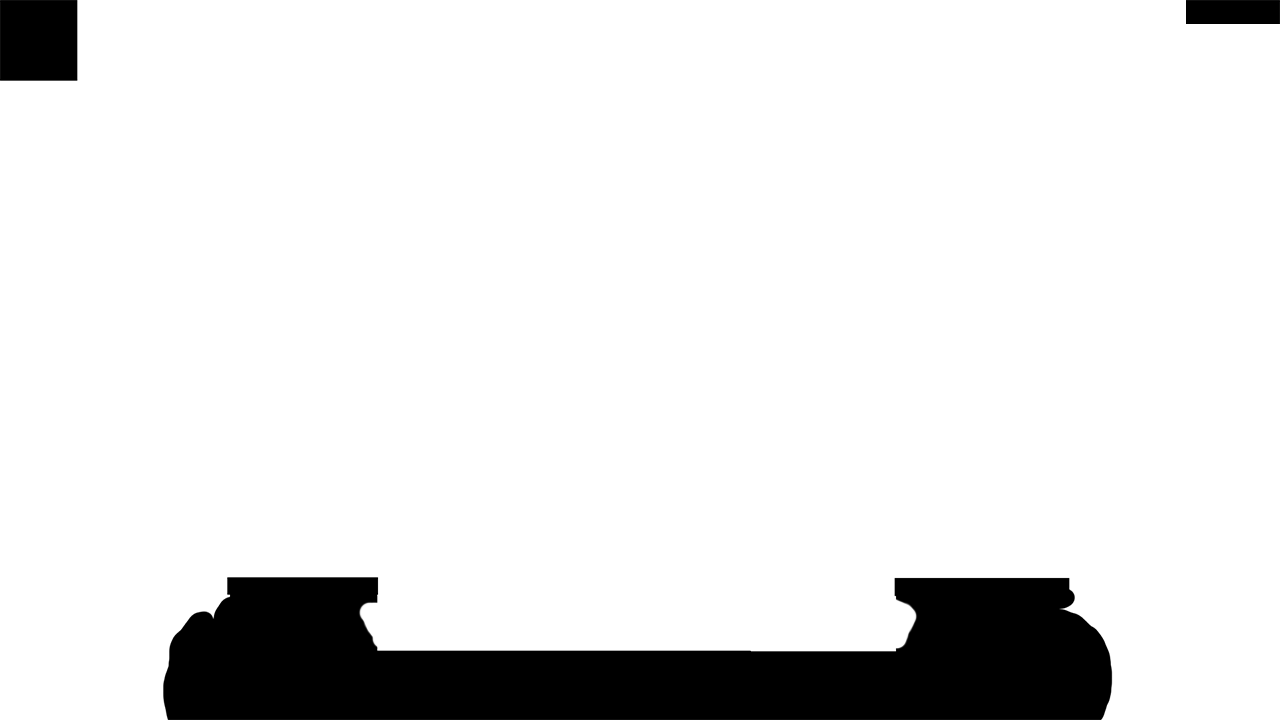
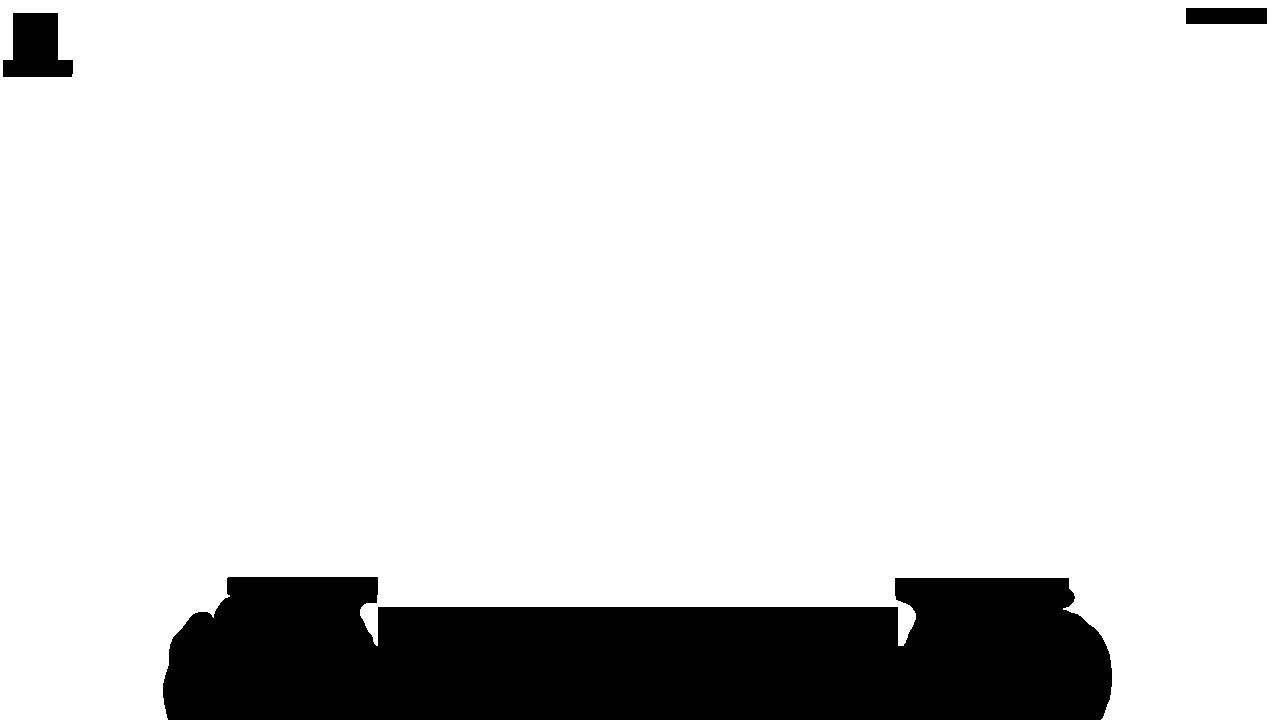
init

Changed region(s): [[0.2812, 0.825, 0.7188, 0.9167], [0.0, 0.0, 0.0625, 0.1222], [0.9062, 0.0, 1.0, 0.0306]]

diff --git a/src/pather.py b/src/pather.py
@@ -13,7 +13,7 @@ from logger import Logger
 from screen import convert_screen_to_monitor, convert_abs_to_screen, convert_abs_to_monitor, convert_screen_to_abs, grab, stop_detecting_window
 import template_finder
 from char import IChar
-from ui_manager import detect_screen_object, ScreenObjects, is_visible, select_screen_object_match
+from ui_manager import detect_screen_object, ScreenObjects, is_visible, select_screen_object_match, get_closest_non_hud_pixel
 
 class Location:
     # A5 Town
@@ -535,44 +535,6 @@ class Pather:
         #     cv2.imwrite(f"./log/screenshots/info/nil_path_{key}_" + time.strftime("%Y%m%d_%H%M%S") + ".png", grab())
         return True
 
-    def _adjust_abs_range_to_screen(self, abs_pos: tuple[float, float]) -> tuple[float, float]:
-        """
-        Adjust an absolute coordinate so it will not go out of screen or click on any ui which will not move the char
-        :param abs_pos: Absolute position of the desired position to move to
-        :return: Absolute position of a valid position that can be clicked on
-        """
-        f = 1.0
-        # Check for x-range
-        if abs_pos[0] > self._range_x[1]:
-            f = min(f, abs(self._range_x[1] / float(abs_pos[0])))
-        elif abs_pos[0] < self._range_x[0]:
-            f = min(f, abs(self._range_x[0] / float(abs_pos[0])))
-        # Check y-range
-        if abs_pos[1] > self._range_y[1]:
-            f = min(f, abs(self._range_y[1] / float(abs_pos[1])))
-        if abs_pos[1] < self._range_y[0]:
-            f = min(f, abs(self._range_y[0] / float(abs_pos[1])))
-        # Scale the position by the factor f
-        if f < 1.0:
-            abs_pos = (int(abs_pos[0] * f), int(abs_pos[1] * f))
-        # Check if adjusted position is "inside globe"
-        screen_pos = convert_abs_to_screen(abs_pos)
-        if is_in_roi(Config().ui_roi["mana_globe"], screen_pos) or is_in_roi(Config().ui_roi["health_globe"], screen_pos):
-            # convert any of health or mana roi top coordinate to abs (x-coordinate is just a dummy 0 value)
-            new_range_y_bottom = convert_screen_to_abs((0, Config().ui_roi["mana_globe"][1]))[1]
-            f = abs(new_range_y_bottom / float(abs_pos[1]))
-            abs_pos = (int(abs_pos[0] * f), int(abs_pos[1] * f))
-        # Check if clicking on merc img
-        screen_pos = convert_abs_to_screen(abs_pos)
-        if is_in_roi(Config().ui_roi["merc_icon"], screen_pos):
-            width = Config().ui_roi["merc_icon"][2]
-            height = Config().ui_roi["merc_icon"][3]
-            w_abs, h_abs = convert_screen_to_abs((width, height))
-            fw = abs(w_abs / float(abs_pos[0]))
-            fh = abs(h_abs / float(abs_pos[1]))
-            f = max(fw, fh)
-            abs_pos = (int(abs_pos[0] * f), int(abs_pos[1] * f))
-        return abs_pos
 
     def find_abs_node_pos(self, node_idx: int, img: np.ndarray, threshold: float = 0.68) -> tuple[float, float]:
         node = self._nodes[node_idx]
@@ -590,7 +552,7 @@ class Pather:
             # Calc the abs node position with the relative coordinates (relative to ref)
             node_pos_rel = self._get_node(node_idx, template_match.name)
             node_pos_abs = self._convert_rel_to_abs(node_pos_rel, ref_pos_abs)
-            node_pos_abs = self._adjust_abs_range_to_screen(node_pos_abs)
+            node_pos_abs = get_closest_non_hud_pixel(pos = node_pos_abs, target_type="abs")
             return node_pos_abs
         return None
 
@@ -668,7 +630,7 @@ class Pather:
                     else:
                         angle = random.random() * math.pi * 2
                         pos_abs = (math.cos(angle) * 150, math.sin(angle) * 150)
-                    pos_abs = self._adjust_abs_range_to_screen(pos_abs)
+                    pos_abs = get_closest_non_hud_pixel(pos = node_pos_abs, target_type="abs")
                     Logger.debug(f"Pather: taking a random guess towards " + str(pos_abs))
                     x_m, y_m = convert_abs_to_monitor(pos_abs)
                     char.move((x_m, y_m), force_move=True)
@@ -733,7 +695,7 @@ if __name__ == "__main__":
                         # Calc the abs node position with the relative coordinates (relative to ref)
                         node_pos_rel = pather._get_node(node_idx, template_type)
                         node_pos_abs = pather._convert_rel_to_abs(node_pos_rel, ref_pos_abs)
-                        node_pos_abs = pather._adjust_abs_range_to_screen(node_pos_abs)
+                        node_pos_abs = get_closest_non_hud_pixel(pos = node_pos_abs, target_type="abs")
                         x, y = convert_abs_to_screen(node_pos_abs)
                         cv2.circle(display_img, (x, y), 5, (255, 0, 0), 3)
                         cv2.putText(display_img, str(node_idx), (x, y), cv2.FONT_HERSHEY_SIMPLEX, 1, (255, 255, 255), 2, cv2.LINE_AA)

diff --git a/src/ui_manager.py b/src/ui_manager.py
@@ -3,12 +3,14 @@ import os
 import numpy as np
 import time
 import cv2
+from functools import cache
+
 from typing import TypeVar, Callable
 from utils.custom_mouse import mouse
 from utils.misc import wait, cut_roi, image_is_equal
 from logger import Logger
 from config import Config
-from screen import grab, convert_abs_to_monitor
+from screen import convert_abs_to_screen, convert_monitor_to_screen, convert_screen_to_abs, convert_screen_to_monitor, grab, convert_abs_to_monitor
 import template_finder
 from template_finder import TemplateMatch
 from dataclasses import dataclass
@@ -330,6 +332,64 @@ def center_mouse(delay_factor: list = None):
         mouse.move(*center_m, randomize=20, delay_factor = delay_factor)
     else:
         mouse.move(*center_m, randomize=20, delay_factor = [0.1, 0.2])
+
+@cache
+def get_hud_mask() -> np.ndarray:
+    mask = cv2.imread(f"assets/hud_mask.png", cv2.IMREAD_GRAYSCALE)
+    return cv2.threshold(mask, 1, 255, cv2.THRESH_BINARY)[1]
+
+def _find_nearest_nonzero(img: np.ndarray, pos: tuple[int, int]) -> tuple[int, int]:
+    """
+    Finds the nearest nonzero pixel to the target pixel.
+    :param img: The image to search in.
+    :param pos: The target pixel
+    :return: The nearest nonzero pixel
+    """
+
+    x, y = pos
+    if x < 0:
+        x = 0
+    elif x >= img.shape[1]:
+        x = img.shape[1] - 1
+    if y < 0:
+        y = 0
+    elif y >= img.shape[0]:
+        y = img.shape[0] - 1
+    if img[y,x]:
+        return (x, y)
+
+    nonzero = cv2.findNonZero(img)
+    distances = np.sqrt((nonzero[:,:,0] - x) ** 2 + (nonzero[:,:,1] - y) ** 2)
+    nearest_index = np.argmin(distances)
+    x, y = nonzero[nearest_index, :, :][0]
+    return (x, y)
+
+def get_closest_non_hud_pixel(pos : tuple[int, int], pos_type: str = "abs") -> tuple[int, int]:
+    """
+    Finds the closest non-hud pixel to the target pixel.
+    :param pos: The target pixel
+    :return: The closest non-hud pixel
+    """
+    match pos_type:
+        case "abs":
+            pos = convert_abs_to_screen(pos)
+        case "monitor":
+            pos = convert_monitor_to_screen(pos)
+        case "screen":
+            pass
+        case _:
+            Logger.error(f"Unknown pos type: {pos_type}")
+            return pos
+    screen_pos = _find_nearest_nonzero(get_hud_mask(), pos)
+    match pos_type:
+        case "abs":
+            new_pos = convert_screen_to_abs(screen_pos)
+        case "monitor":
+            new_pos = convert_screen_to_monitor(screen_pos)
+        case "screen":
+            new_pos = screen_pos
+    return new_pos
+
 
 # Testing: Move to whatever ui to test and run
 if __name__ == "__main__":

diff --git a/src/target_detect.py b/src/target_detect.py
@@ -7,6 +7,7 @@ from math import dist
 from utils.misc import color_filter, is_in_roi
 import json
 from dataclasses import dataclass
+from ui_manager import get_hud_mask
 
 FILTER_RANGES=[
     {"erode": 1, "blur": 3, "lh": 38, "ls": 169, "lv": 50, "uh": 70, "us": 255, "uv": 255}, # poison
@@ -120,8 +121,7 @@ def _process_image(img, mask_char:bool=False, mask_hud:bool=True, erode:int=None
     """
     img = img
     if mask_hud:
-        hud_mask = cv2.imread(f"./assets/hud_mask.png", cv2.IMREAD_GRAYSCALE)
-        img = cv2.bitwise_and(img, img, mask=hud_mask)
+        img = cv2.bitwise_and(img, img, mask=get_hud_mask())
     if mask_char: img = cv2.rectangle(img, (600,250), (700,400), (0,0,0), -1) # black out character by drawing a black box above him (e.g. ignore set glow)
     if erode:
         kernel = np.ones((erode, erode), 'uint8')
@@ -180,8 +180,6 @@ class LiveViewer:
     def __init__(self):
         with open("./src/utils/live-view-last-settings.json") as f:
             self.settings = json.loads(f.read())
-        self.hud_mask = cv2.imread(f"./assets/hud_mask.png", cv2.IMREAD_GRAYSCALE)
-        self.hud_mask = cv2.threshold(self.hud_mask, 1, 255, cv2.THRESH_BINARY)[1]
         self.use_existing_image = False
         self.existing_image_path = "test/assets/mobs.png"
         self.setup()
@@ -209,7 +207,7 @@ class LiveViewer:
             self.image = grab()
         else:
             self.image = cv2.imread(self.existing_image_path)
-        self.image = cv2.bitwise_and(self.image, self.image, mask=self.hud_mask)
+        self.image = cv2.bitwise_and(self.image, self.image, mask=get_hud_mask())
         # black out character
         self.image = cv2.rectangle(self.image, (550,250), (700,400), (0,0,0), -1)
         try:

diff --git a/src/d2r_image/processing_helpers.py b/src/d2r_image/processing_helpers.py
@@ -12,10 +12,11 @@ from d2r_image.ocr import image_to_text
 from d2r_image.processing_data import Runeword
 import d2r_image.d2data_lookup as d2data_lookup
 from d2r_image.d2data_lookup import fuzzy_base_item_match
-from d2r_image.processing_data import EXPECTED_HEIGHT_RANGE, EXPECTED_WIDTH_RANGE, GAUS_FILTER, ITEM_COLORS, QUALITY_COLOR_MAP, Runeword, HUD_MASK, BOX_EXPECTED_HEIGHT_RANGE, BOX_EXPECTED_WIDTH_RANGE
+from d2r_image.processing_data import EXPECTED_HEIGHT_RANGE, EXPECTED_WIDTH_RANGE, GAUS_FILTER, ITEM_COLORS, QUALITY_COLOR_MAP, Runeword, BOX_EXPECTED_HEIGHT_RANGE, BOX_EXPECTED_WIDTH_RANGE
 from d2r_image.strings_store import base_items
 from utils.misc import color_filter, erode_to_black, slugify
 from d2r_image.ocr import image_to_text
+from ui_manager import get_hud_mask
 
 from screen import convert_screen_to_monitor
 from utils.misc import color_filter, cut_roi, roi_center
@@ -163,8 +164,8 @@ def _contains_color(img: np.ndarray, color: str) -> bool:
 
 def clean_img(inp_img: np.ndarray, black_thresh: int = 14) -> np.ndarray:
     img = inp_img[:, :, :]
-    if img.shape[0] == HUD_MASK.shape[0] and img.shape[1] == HUD_MASK.shape[1]:
-        img = cv2.bitwise_and(img, img, mask=HUD_MASK)
+    if img.shape[0] == get_hud_mask().shape[0] and img.shape[1] == get_hud_mask().shape[1]:
+        img = cv2.bitwise_and(img, img, mask=get_hud_mask())
     # In order to not filter out highlighted items, change their color to black
     highlight_mask = color_filter(img, Config().colors["item_highlight"])[0]
     img[highlight_mask > 0] = (0, 0, 0)

diff --git a/src/char/necro.py b/src/char/necro.py
@@ -13,7 +13,7 @@ from pather import Location, Pather
 import numpy as np
 import time
 import os
-from ui_manager import wait_until_visible, ScreenObjects
+from ui_manager import wait_until_visible, ScreenObjects, get_closest_non_hud_pixel
 
 class Necro(IChar):
     def __init__(self, skill_hotkeys: dict, pather: Pather):
@@ -352,10 +352,9 @@ class Necro(IChar):
             target = unit_vector(rotate_vec(cast_dir, angle))
             #Logger.info("current angle ~> "+str(angle))
             for j in range(cast_v_div):
-                circle_pos_screen = self._pather._adjust_abs_range_to_screen((target*120.0*float(j+1.0))*offset)
-                circle_pos_monitor = convert_abs_to_monitor(circle_pos_screen)
+                circle_pos_abs = get_closest_non_hud_pixel(pos = (target*120.0*float(j+1.0))*offset, target_type="abs")
+                circle_pos_monitor = convert_abs_to_monitor(circle_pos_abs)
                 mouse.move(*circle_pos_monitor,delay_factor=[0.3*delay, .6*delay])
-
 
                 #Logger.info("circle move")
         mouse.release(button="right")

diff --git a/src/char/bone_necro.py b/src/char/bone_necro.py
@@ -14,6 +14,7 @@ import numpy as np
 import time
 import os
 from ui_manager import ScreenObjects
+from ui_manager import get_closest_non_hud_pixel
 
 class Bone_Necro(IChar):
     def __init__(self, skill_hotkeys: dict, pather: Pather):
@@ -106,8 +107,8 @@ class Bone_Necro(IChar):
             angle = self._lerp(cast_start_angle,cast_end_angle,float(i)/cast_div)
             target = unit_vector(rotate_vec(cast_dir, angle))
             Logger.debug(f"Circle cast - current angle: {angle}º")
-            circle_pos_screen = self._pather._adjust_abs_range_to_screen(target*radius)
-            circle_pos_monitor = convert_abs_to_monitor(circle_pos_screen)
+            circle_pos_abs = get_closest_non_hud_pixel(pos = target*radius, target_type="abs")
+            circle_pos_monitor = convert_abs_to_monitor(circle_pos_abs)
             start = time.time()
             mouse.move(*circle_pos_monitor,delay_factor=[0.95*delay, 1.05*delay])
             duration = time.time() - start

diff --git a/src/char/poison_necro.py b/src/char/poison_necro.py
@@ -13,6 +13,7 @@ import screen as screen
 import numpy as np
 import time
 import os
+from ui_manager import get_closest_non_hud_pixel
 
 class Poison_Necro(IChar):
     def __init__(self, skill_hotkeys: dict, pather: Pather):
@@ -372,8 +373,8 @@ class Poison_Necro(IChar):
             target = unit_vector(rotate_vec(cast_dir, angle))
             #Logger.info("current angle ~> "+str(angle))
             for j in range(cast_v_div):
-                circle_pos_screen = self._pather._adjust_abs_range_to_screen((target*120.0*float(j+1.0))*offset)
-                circle_pos_monitor = screen.convert_abs_to_monitor(circle_pos_screen)
+                circle_pos_abs = get_closest_non_hud_pixel(pos = ((target*120.0*float(j+1.0))*offset), target_type="abs")
+                circle_pos_monitor = screen.convert_abs_to_monitor(circle_pos_abs)
                 mouse.move(*circle_pos_monitor,delay_factor=[0.3*delay, .6*delay])
 
 

diff --git a/test/closest_non_hud_test.py b/test/closest_non_hud_test.py
@@ -1,0 +1,20 @@
+import pytest
+import screen
+from ui_manager import get_closest_non_hud_pixel
+
+
+@pytest.mark.parametrize("pos, pos_type, should_adapt", [
+    ((40, 40), "screen", True), # over merc portrait
+    ((1241, 19), "screen", True), # over clock
+    ((291, 663), "screen", True), # over health globe
+    ((650, 300), "screen", False), # mid screen
+    ((783, 618), "screen", True), # over active skill bar
+    ((1062, 594), "screen", True), # over gargoyle
+    ((0, 0), "abs", False), # mid screen
+    ((221, 327), "abs", True), # near right skill
+])
+def test_get_closest_non_hud_pixel(pos, pos_type, should_adapt):
+    screen.set_window_position(0, 0)
+    new_pos = get_closest_non_hud_pixel(pos, pos_type)
+    is_adapted = not (pos == new_pos)
+    assert(is_adapted == should_adapt)

diff --git a/src/char/i_char.py b/src/char/i_char.py
@@ -15,7 +15,7 @@ from logger import Logger
 from config import Config
 from screen import grab, convert_monitor_to_screen, convert_screen_to_abs, convert_abs_to_monitor, convert_screen_to_monitor
 import template_finder
-from ui_manager import detect_screen_object, ScreenObjects
+from ui_manager import detect_screen_object, ScreenObjects, get_closest_non_hud_pixel
 
 class IChar:
     _CrossGameCapabilities: None | CharacterCapabilities = None
@@ -309,7 +309,7 @@ class IChar:
 
 
     def vec_to_monitor(self, target):
-        circle_pos_screen = self._pather._adjust_abs_range_to_screen(target)
+        circle_pos_screen = get_closest_non_hud_pixel(pos = target, target_type="abs")
         return convert_abs_to_monitor(circle_pos_screen)
 
     def _lerp(self,a: float,b: float, f:float):

diff --git a/src/d2r_image/processing_data.py b/src/d2r_image/processing_data.py
@@ -2,9 +2,6 @@ from enum import Enum
 from d2r_image.data_models import ItemQuality
 import cv2
 
-HUD_MASK = cv2.imread(f"assets/hud_mask.png", cv2.IMREAD_GRAYSCALE)
-HUD_MASK = cv2.threshold(HUD_MASK, 1, 255, cv2.THRESH_BINARY)[1]
-
 ITEM_COLORS = ['white', 'gray', 'blue', 'green', 'yellow', 'gold', 'orange']
 GAUS_FILTER = (21, 1)
 EXPECTED_HEIGHT_RANGE = [round(num) for num in [x / 1.5 for x in [14, 40]]]
